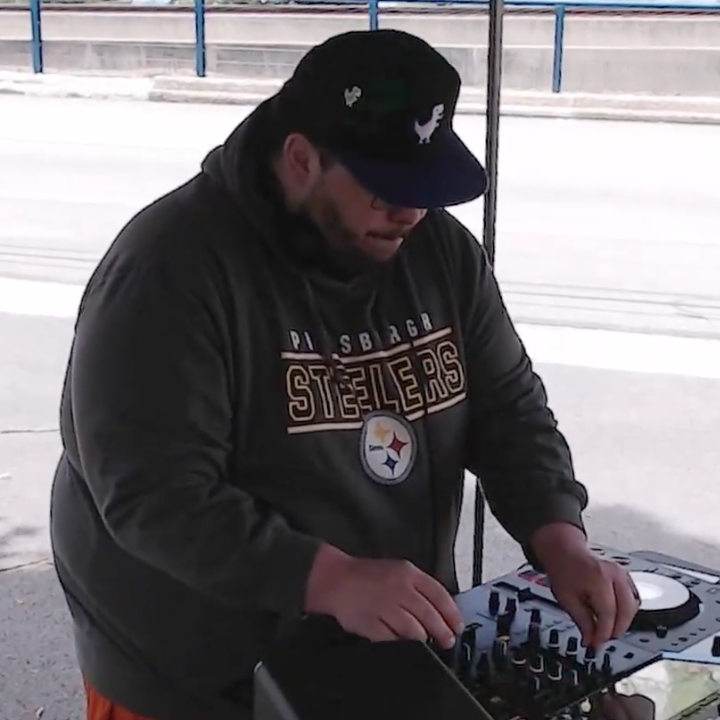
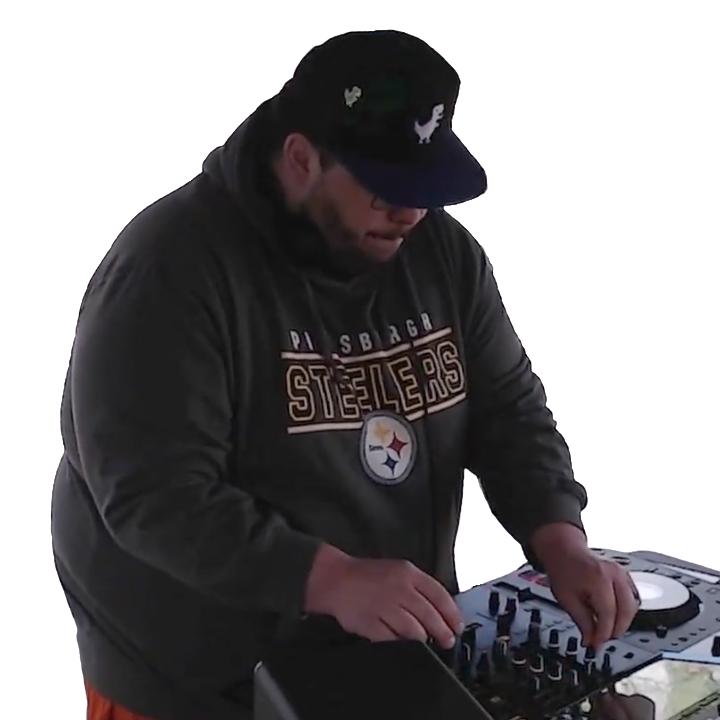
press kit changes

diff --git a/presskit.html b/presskit.html
@@ -47,6 +47,71 @@ iframe {width:80%; height:300px; border:none; margin:20px auto; display:block; b
 .media-tabs {
   margin-bottom: 10px;
 }
+
+.carousel {
+  display: flex;
+  overflow: hidden;
+  max-width: 1000px;
+  margin: 0 auto 40px;
+  position: relative;
+}
+
+.carousel-track {
+  display: flex;
+  transition: transform 0.5s ease;
+}
+
+.carousel-item {
+  flex: 0 0 200px;
+  text-align: center;
+  margin: 0 15px;
+}
+
+.carousel-item img {
+  width: 100%;
+  height: auto;
+  border-radius: 10px;
+  transition: transform 0.3s;
+}
+
+.carousel-item img:hover {
+  transform: scale(1.1);
+}
+
+.carousel-item p {
+  margin-top: 10px;
+  font-size: 18px;
+  color: white;
+  transition: color 0.3s;
+}
+
+.carousel-item:hover p {
+  color: #C8A700;
+}
+
+.carousel-buttons {
+  position: absolute;
+  top: 50%;
+  width: 100%;
+  display: flex;
+  justify-content: space-between;
+  transform: translateY(-50%);
+}
+
+.carousel-buttons button {
+  background: rgba(0, 0, 0, 0.6);
+  border: none;
+  color: white;
+  font-size: 30px;
+  cursor: pointer;
+  padding: 5px 10px;
+  transition: background 0.3s;
+}
+
+.carousel-buttons button:hover {
+  background: #C8A700;
+  color: black;
+}
 footer {background:#131314; padding:20px; color:gray; font-size:14px;}
 
     .container {max-width: 1200px; margin: 0 auto; padding: 0 20px; text-align: center;}
@@ -78,7 +143,7 @@ footer {background:#131314; padding:20px; color:gray; font-size:14px;}
 
 <section id="bio">
 <h2>Bio</h2>
-<p>Champs is a Pittsburgh-based DJ and producer known for high-energy sets blending house, techno, and trance. He has rocked stages at venues like Bottlerocket Social Hall, Spirit Lodge, and Hellbender Vinyl, and delivered guest mixes on Ibiza Stardust Radio, MSYH.FM, and Elevated Eclectica. His live performances and curated sets have earned him recognition across both streaming and live platforms. Whether spinning at clubs, radio, or virtual events, Champs crafts unforgettable experiences rooted in immersive sound and dynamic flow.</p>
+<p>Champs is a Pittsburgh-based DJ and producer known for high-energy sets blending house, techno, and trance. He has rocked stages at venues like Bottlerocket Social Hall, Spirit Lodge, and Hellbender Vinyl, and is currently or has been a resident DJ on Ibiza Stardust Radio, MSYH.FM, and Elevated Eclectica. His live performances and curated sets have earned him recognition across both streaming and live platforms. Whether spinning at clubs, radio, or virtual events, Champs crafts unforgettable experiences rooted in immersive sound and dynamic flow.</p>
 </section>
 
 
@@ -114,8 +179,8 @@ footer {background:#131314; padding:20px; color:gray; font-size:14px;}
 <div class="media-block">
 <div class="media-tabs video-tabs">
 <button class="active" onclick="showVideo('promo')">House Set Live</button>
-<button onclick="showVideo('live')">Drum &amp; Bass Live</button>
-<button onclick="showVideo('radio')">MSYH.FM Live from Hellbender</button>
+<button onclick="showVideo('live')">Drum &amp; Bass Set Live</button>
+<button onclick="showVideo('radio')">MSYH.FM Radio Set Live from Hellbender</button>
 </div>
 <iframe id="videoPlayer" src="https://www.youtube.com/embed/azoQ-88LIl0" frameborder="0" allowfullscreen></iframe>
 </div>
@@ -124,9 +189,52 @@ footer {background:#131314; padding:20px; color:gray; font-size:14px;}
 
 
 <section id="highlights">
-<h2>Notable Venues & Events</h2>
-<div class="placeholder">Venues Grid Placeholder</div>
-<div class="placeholder">Events Grid Placeholder</div>
+  <h2>Notable Venues & Events</h2>
+
+  <!-- Venues Carousel -->
+  <div class="carousel" id="venuesCarousel">
+    <div class="carousel-track">
+      <div class="carousel-item">
+        <img src="Images/bottlerocket.jpg" alt="Bottlerocket Social Hall">
+        <p>Bottlerocket Social Hall</p>
+      </div>
+      <div class="carousel-item">
+        <img src="Images/spirit.jpg" alt="Spirit Lodge">
+        <p>Spirit Hall</p>
+      </div>
+      <div class="carousel-item">
+        <img src="Images/thisisred.jpg" alt="THIS IS RED">
+        <p>THIS IS RED</p>
+      </div>
+      <div class="carousel-item">
+        <img src="Images/theclement.jpg" alt="The Clement">
+        <p>The Clement</p>
+      </div>
+      <div class="carousel-item">
+        <img src="Images/hellbender.jpg" alt="Hellbender Vinyl">
+        <p>Hellbender Vinyl</p>
+      </div>
+    </div>
+    <div class="carousel-buttons">
+      <button onclick="moveCarousel('venuesCarousel', -1)">&#10094;</button>
+      <button onclick="moveCarousel('venuesCarousel', 1)">&#10095;</button>
+    </div>
+  </div>
+
+  <!-- Events Carousel -->
+  <div class="carousel" id="eventsCarousel">
+    <div class="carousel-track">
+      <div class="carousel-item"><p>Colombino</p></div>
+      <div class="carousel-item"><p>Spigolo</p></div>
+      <div class="carousel-item"><p>Pittsburgh Open Decks</p></div>
+      <div class="carousel-item"><p>EDC Discord Music Night</p></div>
+      <div class="carousel-item"><p>Techno Harbor</p></div>
+    </div>
+    <div class="carousel-buttons">
+      <button onclick="moveCarousel('eventsCarousel', -1)">&#10094;</button>
+      <button onclick="moveCarousel('eventsCarousel', 1)">&#10095;</button>
+    </div>
+  </div>
 </section>
 
 
@@ -177,6 +285,20 @@ buttons[1].classList.add('active');
 video.src = 'https://www.youtube.com/embed/hxUK9zJjpnc';
 buttons[2].classList.add('active');
 }
+}
+</script>
+<script>
+function moveCarousel(carouselId, direction) {
+  const carousel = document.getElementById(carouselId);
+  const track = carousel.querySelector('.carousel-track');
+  const itemWidth = carousel.querySelector('.carousel-item').offsetWidth + 30; // 200px + margin
+  const maxScroll = (track.children.length * itemWidth) - carousel.offsetWidth;
+  let currentTransform = getComputedStyle(track).transform;
+  let matrixValues = currentTransform === 'none' ? 0 : parseFloat(currentTransform.split(',')[4]);
+  let newTransform = matrixValues - (direction * itemWidth);
+  if (newTransform > 0) newTransform = 0;
+  if (newTransform < -maxScroll) newTransform = -maxScroll;
+  track.style.transform = `translateX(${newTransform}px)`;
 }
 </script>
 </div></body>

diff --git a/about.html b/about.html
@@ -237,7 +237,7 @@
     <h1>ABOUT</h1>
 	
 	<figure>	
-		<img src="Images/Champs_CloseUp_Headshot.jpg" alt="Champs Headshot">
+		<img src="Images/CloseUp_Headshot.png" alt="Champs Headshot">
 		<figcaption style="color: grey;">Our Founder, Matt Burns (Champs)</figcaption>
 	</figure>
 		
